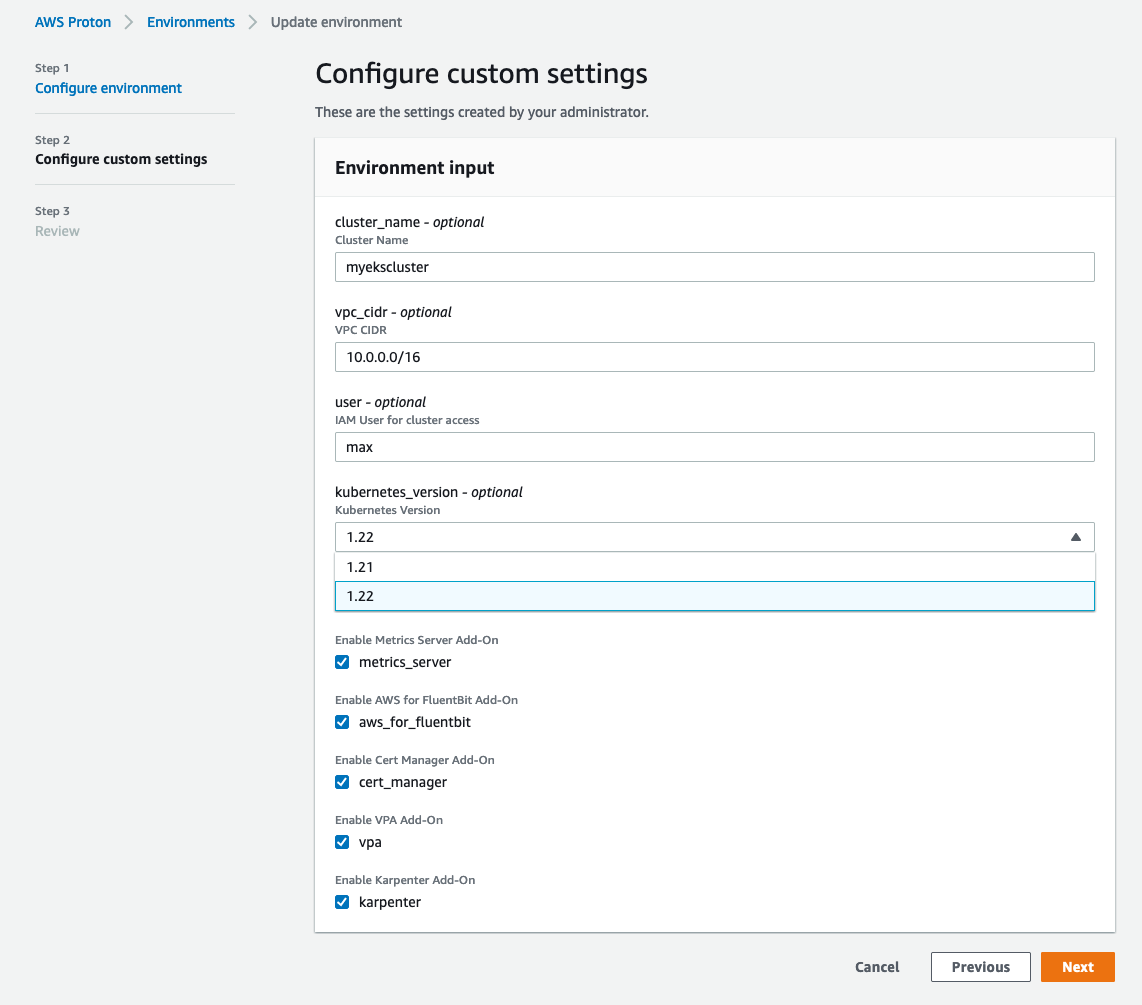
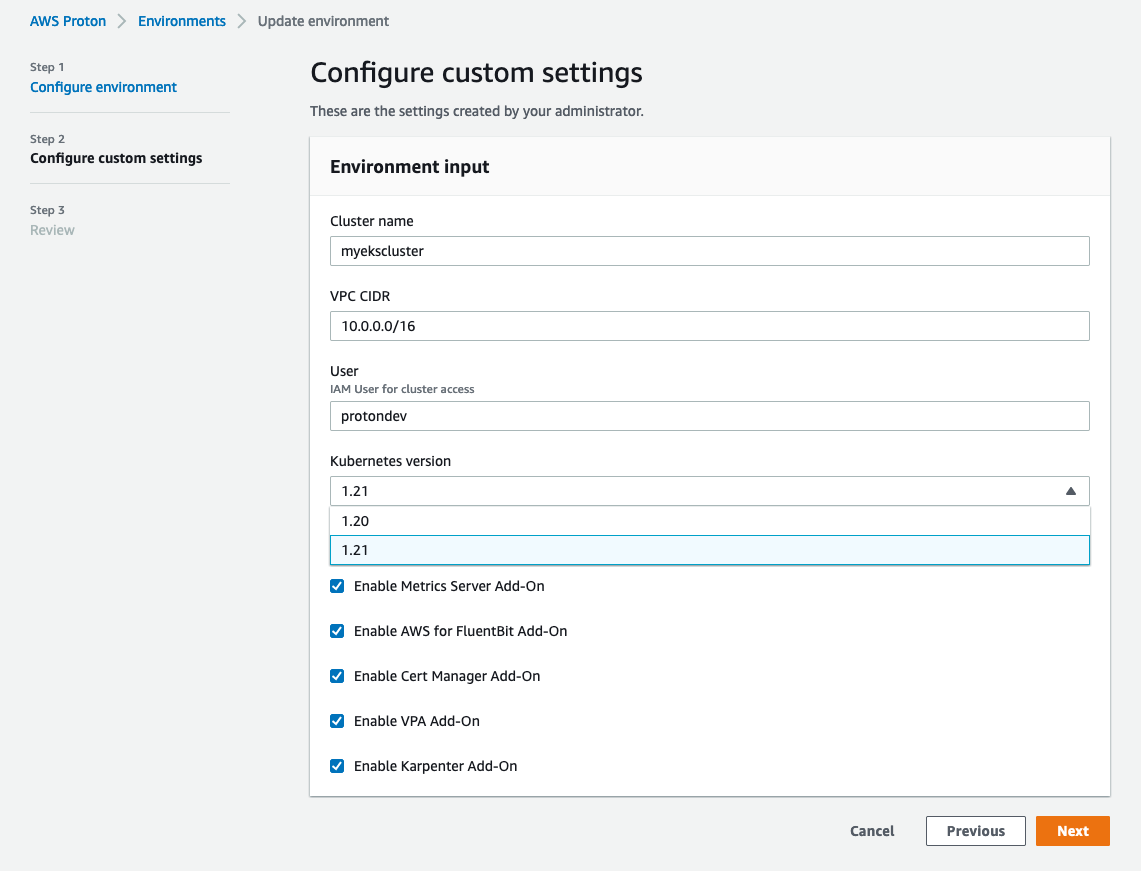
Rebased to 1.20/1.21

Changed region(s): [[0.2761, 0.062, 0.9816, 0.992], [0.0307, 0.062, 0.184, 0.279], [0.0307, 0.0, 0.3681, 0.031]]

diff --git a/README.md b/README.md
@@ -102,7 +102,7 @@ Give your cluster a name, leave the vpc_cidr as is and add your AWS IAM user (`p
 
 The EKS Blueprints will enable the user you enter to assume an IAM role that has been defined as a Kubernetes cluster admin in the K8s RBAC (we'll play with this later). The list of add-ons has been provided as an example. Flag or unflag them at your discretion. Should you use this solution in production you may want to check in the EKS Blueprints all the add-ons supported and include what you need in your own Proton template. For example, you may want to expose the size of the cluster either in terms of nodes (min, max) or in t-shirt sizes (small, medium, large). This example template hard code the size of the cluster, but it's really all up to the platform team to decide what parameters to expose to developers.
 
-This is where the magic happens. The input parameters you see here (which are obviously related to the EKS cluster you are about to provision) are part of the sample template provided in the repo but that you can fully customize based on your needs. Specifically the [main.tf](https://github.com/aws-samples/eks-blueprints-for-proton/blob/main/templates/eks-mng-karpenter-with-new-vpc/v1/infrastructure/main.tf) file is where the [EKS Blueprints](https://github.com/aws-ia/terraform-aws-eks-blueprints/blob/main/docs/getting-started.md) module is imported and where the core configuration is defined. The [schema.yaml](https://github.com/aws-samples/eks-blueprints-for-proton/blob/main/templates/eks-mng-karpenter-with-new-vpc/v1/schema/schema.yaml) file is where all the inputs get defined. The [outputs.tf](https://github.com/aws-samples/eks-blueprints-for-proton/blob/main/templates/eks-mng-karpenter-with-new-vpc/v1/infrastructure/outputs.tf) file is where all the outputs that will be presented in the Proton console get defined. Note that in the template sample we created in the repo the only Kubernetes version you can pick is 1.21 because we pretend that this is the only version that the platform team at your org has vetted and is supporting internally.
+This is where the magic happens. The input parameters you see here (which are obviously related to the EKS cluster you are about to provision) are part of the sample template provided in the repo but that you can fully customize based on your needs. Specifically the [main.tf](https://github.com/aws-samples/eks-blueprints-for-proton/blob/main/templates/eks-mng-karpenter-with-new-vpc/v1/infrastructure/main.tf) file is where the [EKS Blueprints](https://github.com/aws-ia/terraform-aws-eks-blueprints/blob/main/docs/getting-started.md) module is imported and where the core configuration is defined. The [schema.yaml](https://github.com/aws-samples/eks-blueprints-for-proton/blob/main/templates/eks-mng-karpenter-with-new-vpc/v1/schema/schema.yaml) file is where all the inputs get defined. The [outputs.tf](https://github.com/aws-samples/eks-blueprints-for-proton/blob/main/templates/eks-mng-karpenter-with-new-vpc/v1/infrastructure/outputs.tf) file is where all the outputs that will be presented in the Proton console get defined. Note that in the template sample we created in the repo the only Kubernetes version you can pick is 1.20 because we pretend that this is the only version that the platform team at your org has vetted and is supporting internally.
 
 Click `Next` and in the next summary form click `Create`. This will kick off your cluster creation. 
 
@@ -130,7 +130,7 @@ You should still be logged in as `protondev`. You can now open a Cloud Shell and
 [cloudshell-user@ip-10-0-70-52 ~]$ aws eks --region us-west-2 update-kubeconfig --name 6946-myekscluster --role-arn arn:aws:iam::336419811389:role/6946-aws001-preprod-dev-platform-team-Access
 Added new context arn:aws:eks:us-west-2:336419811389:cluster/6946-myekscluster to /home/cloudshell-user/.kube/config
 
-[cloudshell-user@ip-10-0-70-52 ~]$ ./kubectl get pods -A
+[cloudshell-user@ip-10-0-70-52 ~]$ kubectl get pods -A
 NAMESPACE        NAME                                            READY   STATUS    RESTARTS   AGE
 cert-manager     cert-manager-646968b67-tj6zd                    1/1     Running   0          103m
 cert-manager     cert-manager-cainjector-7d55bf8f78-k6p2w        1/1     Running   0          103m
@@ -147,19 +147,21 @@ metrics-server   metrics-server-694d47d564-wb5jv                 1/1     Running
 vpa              vpa-recommender-554f56647b-pq2g5                1/1     Running   0          104m
 vpa              vpa-updater-67d6c5c7cf-b2hsd                    1/1     Running   0          104m
 
-[cloudshell-user@ip-10-0-70-52 ~]$ ./kubectl get nodes
+[cloudshell-user@ip-10-0-70-52 ~]$ kubectl get nodes
 NAME                                        STATUS   ROLES    AGE    VERSION
-ip-10-0-11-250.us-west-2.compute.internal   Ready    <none>   105m   v1.21.5-eks-9017834
+ip-10-0-10-125.us-west-2.compute.internal   Ready    <none>   105m   v1.20.11-eks-f17b81
+ip-10-0-11-68.us-west-2.compute.internal    Ready    <none>   105m   v1.20.11-eks-f17b81
+ip-10-0-12-132.us-west-2.compute.internal   Ready    <none>   105m   v1.20.11-eks-f17b81
 
-[cloudshell-user@ip-10-0-70-52 ~]$ ./kubectl cluster-info
+[cloudshell-user@ip-10-0-70-52 ~]$ kubectl cluster-info
 Kubernetes control plane is running at https://FEEEFE9EC8CE64A2F90269827F8CB045.gr7.us-west-2.eks.amazonaws.com
 CoreDNS is running at https://FEEEFE9EC8CE64A2F90269827F8CB045.gr7.us-west-2.eks.amazonaws.com/api/v1/namespaces/kube-system/services/kube-dns:dns/proxy
 
 To further debug and diagnose cluster problems, use 'kubectl cluster-info dump'.
 
-[cloudshell-user@ip-10-0-70-52 ~]$ ./kubectl version
+[cloudshell-user@ip-10-0-70-52 ~]$ kubectl version
 Client Version: version.Info{Major:"1", Minor:"23", GitVersion:"v1.23.5", GitCommit:"c285e781331a3785a7f436042c65c5641ce8a9e9", GitTreeState:"clean", BuildDate:"2022-03-16T15:58:47Z", GoVersion:"go1.17.8", Compiler:"gc", Platform:"linux/amd64"}
-Server Version: version.Info{Major:"1", Minor:"21+", GitVersion:"v1.21.9-eks-0d102a7", GitCommit:"eb09fc479c1b2bfcc35c47416efb36f1b9052d58", GitTreeState:"clean", BuildDate:"2022-02-17T16:36:28Z", GoVersion:"go1.16.12", Compiler:"gc", Platform:"linux/amd64"}
+Server Version: version.Info{Major:"1", Minor:"20+", GitVersion:"v1.20.15-eks-14c7a48", GitCommit:"eb09fc479c1b2bfcc35c47416efb36f1b9052d58", GitTreeState:"clean", BuildDate:"2022-04-01T03:14:50Z", GoVersion:"go1.15.15", Compiler:"gc", Platform:"linux/amd64"}
 WARNING: version difference between client (1.23) and server (1.21) exceeds the supportedhttps://docs.aws.amazon.com/IAM/latest/UserGuide/id_roles_use_switch-role-console.html minor version skew of +/-1
 [cloudshell-user@ip-10-0-70-52 ~]$ 
 ```
@@ -175,18 +177,18 @@ How do you maintain this cluster then? We are glad you asked.
 
 #### Updating the Proton cluster template
 
-Remember this solution allows a central platform team to maintain a set of standards (one of which is the Kubernetes cluster version). As a platform administrator you may get to the point where you bless another Kubernetes version. In this case let's simulate that you have verified K8s version `1.22` adheres to your organization standards, and you want to make it available to you developers. The only thing you need to do is to update the [schema.yaml](https://github.com/aws-samples/eks-blueprints-for-proton/blob/main/templates/eks-mng-karpenter-with-new-vpc/v1/schema/schema.yaml) file in your own repository (the repository you are using with Proton) to include the new version. Specifically you need to configure the `kubernetes_version` variable to accept both `1.21` and `1.22` and change the default to `1.22` as follows: 
+Remember this solution allows a central platform team to maintain a set of standards (one of which is the Kubernetes cluster version). As a platform administrator you may get to the point where you bless another Kubernetes version. In this case let's simulate that you have verified K8s version `1.21` adheres to your organization standards, and you want to make it available to you developers. The only thing you need to do is to update the [schema.yaml](https://github.com/aws-samples/eks-blueprints-for-proton/blob/main/templates/eks-mng-karpenter-with-new-vpc/v1/schema/schema.yaml) file in your own repository (the repository you are using with Proton) to include the new version. Specifically you need to configure the `kubernetes_version` variable to accept both `1.20` and `1.21` and change the default to `1.21` as follows: 
 ```
         kubernetes_version:
           type: string
           description: Kubernetes Version
-          enum: ["1.21", "1.22"]
-          default: "1.22"
+          enum: ["1.20", "1.21"]
+          default: "1.21"
 ```
 
 When you push this commit to your repository in GitHub, Proton will detect the change in the template. If you login with the administrative user you will see in the details of your `Environment template` that there is a new version in the `Draft` stage. You can click `Publish`, and it will become the new default minor version for that template. 
 
-This means that every cluster a developer will deploy with this template can be deployed with either versions (because `1.21` and `1.22` are both valid options). However, it is also possible to upgrade an existing 1.21 cluster to the new 1.22 version. 
+This means that every cluster a developer will deploy with this template can be deployed with either versions (because `1.20` and `1.21` are both valid options). However, it is also possible to upgrade an existing 1.20 cluster to the new 1.21 version. 
 
 Your environment template should now look like this: 
 
@@ -204,7 +206,7 @@ In our scenario, you have to go to the Proton environment and click `Update mino
 
 ![update_environment](images/update_environment.png)
 
-At the next screen leave everything unchanged and click `Edit` to get access and update your cluster parameters. Here you can set the cluster version to 1.22:
+At the next screen leave everything unchanged and click `Edit` to get access and update your cluster parameters. Here you can set the cluster version to 1.21:
 
 ![edit_cluster_params](images/edit_cluster_params.png)
 
